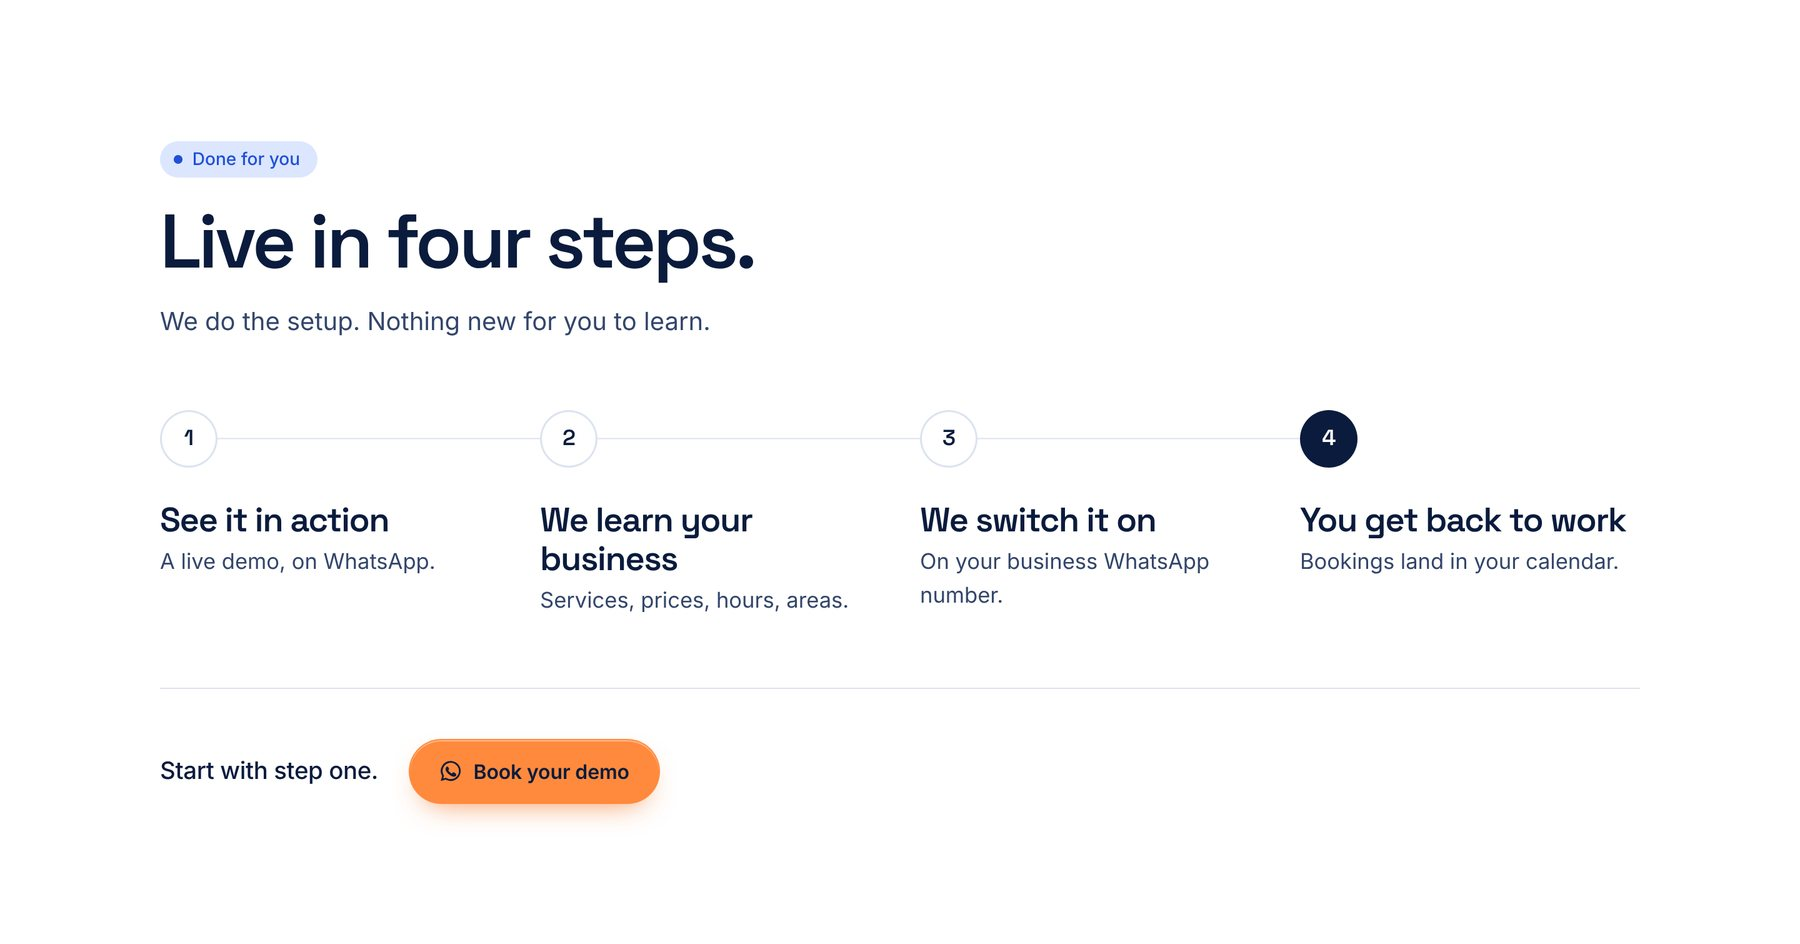
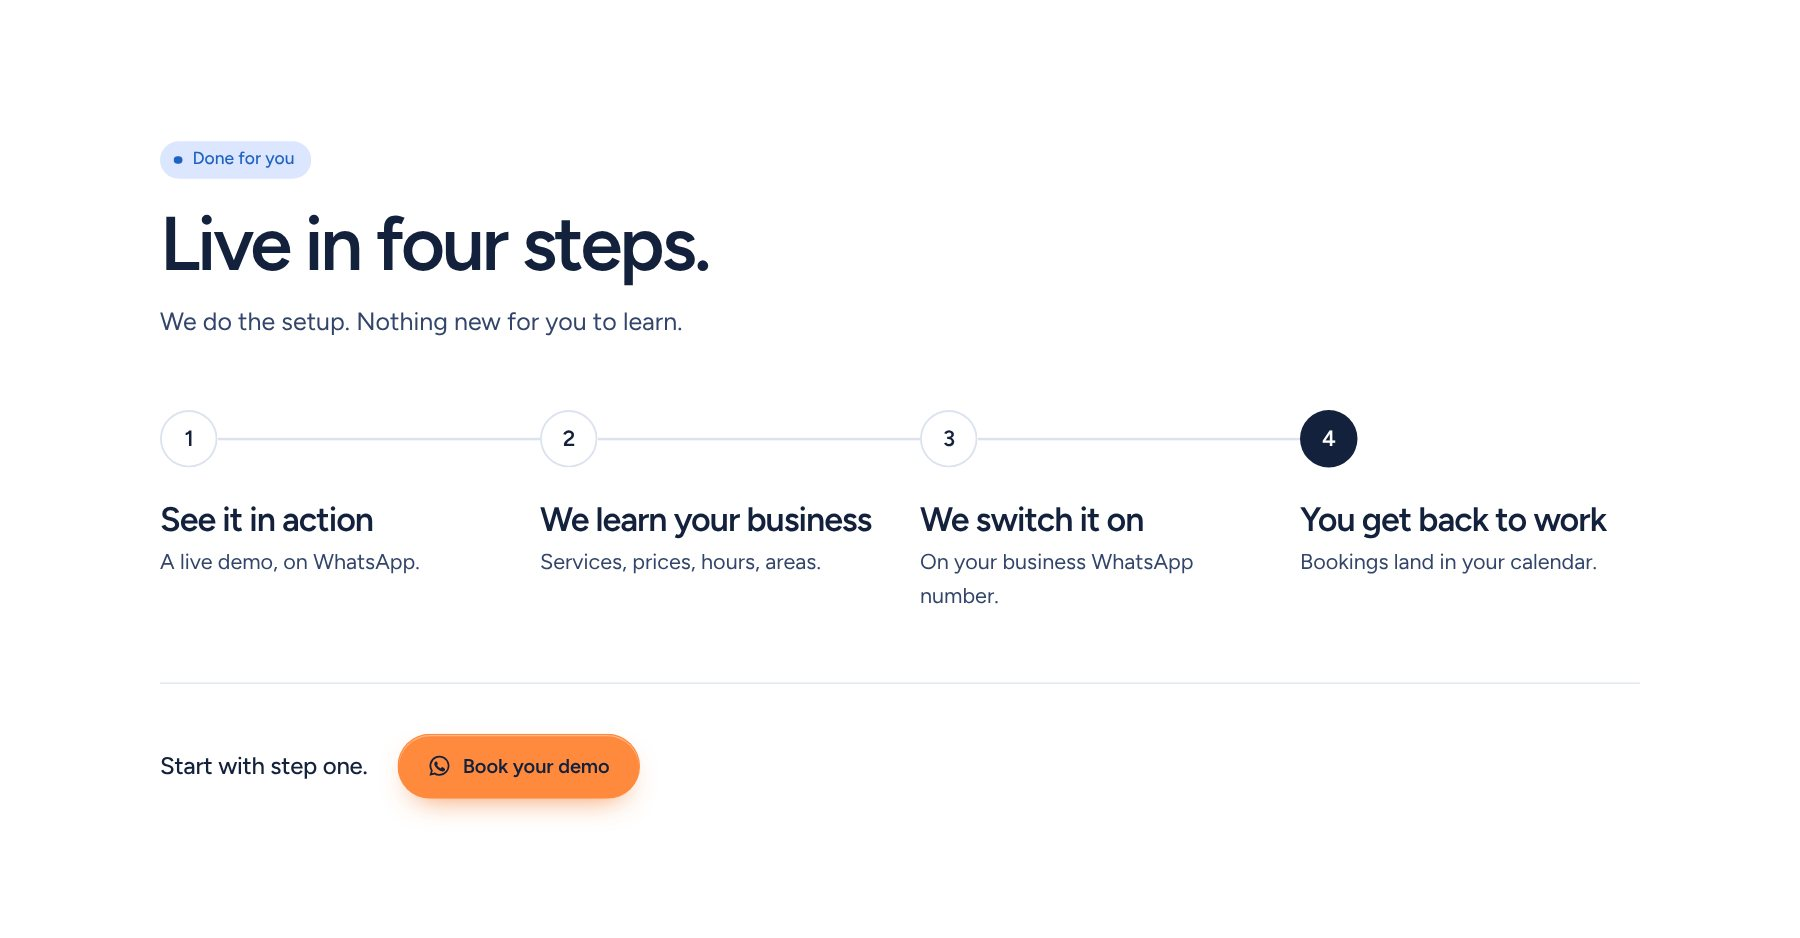
Hillo Receptionist: results-led pitch, menu-bot comparison, lowercase lockup; finish Front Desk rename in case study
Claude-Session: https://claude.ai/code/session_015WsDLJGdahUdhifUbWcuVV

diff --git a/receptionist/index.html b/receptionist/index.html
@@ -4,7 +4,7 @@
 <meta charset="utf-8">
 <meta name="viewport" content="width=device-width, initial-scale=1">
 <title>Hillo Receptionist | WhatsApp bookings for George, Mossel Bay and surrounds</title>
-<meta name="description" content="An assistant that answers your WhatsApp, books jobs into your calendar and speaks as your business, in English or Afrikaans. For small businesses in George, Mossel Bay and surrounds.">
+<meta name="description" content="Hillo Receptionist answers the WhatsApps you miss while you're with a client. It replies like a person, answers questions and books jobs into your calendar, in English or Afrikaans. For small businesses in George, Mossel Bay and surrounds.">
 <meta name="theme-color" content="#F6F8FC">
 <meta name="color-scheme" content="light">
 <!-- Draft preview: keep out of search until launch. Remove at launch. -->
@@ -16,7 +16,7 @@
 <link rel="canonical" href="https://hillo.co.za/receptionist/">
 <meta property="og:url" content="https://hillo.co.za/receptionist/">
 <meta property="og:title" content="Hillo Receptionist · Answers your WhatsApp 24/7">
-<meta property="og:description" content="It answers your WhatsApp and books jobs into your calendar. 24/7, in English or Afrikaans. For small businesses in George, Mossel Bay and surrounds.">
+<meta property="og:description" content="Answers the WhatsApps you miss while you're with a client, and books jobs into your calendar. 24/7, in English or Afrikaans.">
 <meta property="og:image" content="https://hillo.co.za/receptionist/og.png">
 <meta property="og:image:width" content="1200">
 <meta property="og:image:height" content="630">
@@ -355,6 +355,16 @@
      Language band: the one deep-blue band. White text only.
      ========================================================= */
   .language { background: var(--ink); color: #fff; }
+  /* Not a menu bot: claims as a ticked list, same tick as the chat captions = "this is done for you" */
+  .notbot .wrap { display: grid; gap: 2.5rem; align-items: start; }
+  @media (min-width: 900px) { .notbot .wrap { grid-template-columns: minmax(0, 0.9fr) minmax(0, 1.1fr); gap: 5rem; } }
+  .diffs { list-style: none; margin: 0; padding: 0; display: grid; }
+  .diffs li { display: grid; grid-template-columns: auto minmax(0, 1fr); gap: 1rem; padding: 1.15rem 0; border-top: 1px solid var(--line); }
+  .diffs li:last-child { border-bottom: 1px solid var(--line); }
+  .d-tick { width: 1.9rem; height: 1.9rem; border-radius: 50%; display: grid; place-items: center; background: var(--blue-soft); color: var(--blue); margin-top: .1rem; }
+  .d-tick svg { width: 1rem; height: 1rem; }
+  .diffs h3 { margin: 0 0 .15rem; font-size: 1.15rem; font-weight: 600; letter-spacing: -0.015em; line-height: 1.3; }
+  .diffs p { margin: 0; color: var(--ink-2); }
   .language .h2 { max-width: none; }
   .language .h2 span { display: block; }
   .language .h2 span + span { color: var(--blue-soft); }
@@ -549,7 +559,7 @@
 
 <header class="site-header" id="site-header">
   <div class="wrap">
-    <a class="wordmark" href="#top" aria-label="Hillo Receptionist, home"><span class="wm" aria-hidden="true">h<span class="i">ı</span>llo</span><span class="desc" aria-hidden="true">Receptionist</span></a>
+    <a class="wordmark" href="#top" aria-label="Hillo Receptionist, home"><span class="wm" aria-hidden="true">h<span class="i">ı</span>llo</span><span class="desc" aria-hidden="true">receptionist</span></a>
     <nav class="nav" aria-label="Main">
       <a href="#how">How it works</a>
       <a href="#faq">Questions</a>
@@ -570,7 +580,7 @@
           <span class="sr-only">receptionist</span>
           <span class="line" aria-hidden="true"><span class="role" id="role"><span class="role-text" id="role-text">receptionist</span></span></span>
         </h1>
-        <p class="lede">It answers your WhatsApp and books jobs into your calendar. <span class="nowrap">24/7, in English or Afrikaans.</span></p>
+        <p class="lede">How many WhatsApps do you miss while you're with a client? Hillo Receptionist answers them for you. <span class="nowrap">24/7, in English or Afrikaans.</span></p>
         <div class="hero-actions">
           <a class="btn btn-primary js-wa" href="#demo"><svg class="i"><use href="#i-wa"/></svg>Chat to us on WhatsApp</a>
           <a class="btn btn-ghost" href="#how">See how it works</a>
@@ -611,7 +621,7 @@
     <div class="wrap">
       <p class="tag">Always on</p>
       <h2 class="h2" id="tasks-title" data-focus>Every message gets a reply. Even when you're busy.</h2>
-      <p class="sub" data-focus>Your WhatsApp keeps working while you do.</p>
+      <p class="sub" data-focus>It replies like a person, answers questions and books jobs straight into your calendar. If something needs you, it sends you a message.</p>
       <ul class="tasks">
         <li><span class="icon-tile"><svg class="i"><use href="#i-chat"/></svg></span><h3>Answers questions</h3><p>Prices, hours, areas. In your words.</p></li>
         <li><span class="icon-tile"><svg class="i"><use href="#i-cal"/></svg></span><h3>Books jobs</h3><p>Straight into your calendar.</p></li>
@@ -631,13 +641,30 @@
       <figure class="float-chat" data-arrive aria-label="Example: one messy message with a new question and a change of day, both handled in one reply">
         <ol class="thread">
           <li class="turn cust"><p class="msg">ok thursday 2pm works. <mark class="hl-new">wait do u also do pool pumps??</mark> and <mark class="hl-change">can we make it friday rather</mark>, sorry<time>18:12</time></p><span class="ava-cust" aria-hidden="true"><svg class="i"><use href="#i-user"/></svg></span></li>
-          <li class="turn biz" style="--i:1"><p class="msg">No problem! <mark class="hl-new">Yes, we repair and replace pool pumps.</mark> <mark class="hl-change">Friday at 14:00 is open, so you're moved to then.</mark> Should we look at the pump on the same visit?<time>18:12</time></p></li>
+          <li class="turn biz" style="--i:1"><p class="msg">No problem. <mark class="hl-new">Yes, we repair and replace pool pumps.</mark> <mark class="hl-change">Friday at 14:00 is open, so you're moved to then.</mark> Should we look at the pump on the same visit?<time>18:12</time></p></li>
           <li class="caps" style="--i:2">
             <p class="cap"><span class="sw new" aria-hidden="true"><svg><use href="#i-tick"/></svg></span>New question answered</p>
             <p class="cap"><span class="sw change" aria-hidden="true"><svg><use href="#i-tick"/></svg></span>Moved to Friday 14:00</p>
           </li>
         </ol>
       </figure>
+    </div>
+  </section>
+
+  <!-- ===== Not a menu bot ===== -->
+  <section class="band notbot" aria-labelledby="notbot-title">
+    <div class="wrap">
+      <div>
+        <h2 class="h2" id="notbot-title" data-focus>Not another menu bot.</h2>
+        <p class="sub" data-focus>Cheap WhatsApp bots make customers press 1 for bookings and 2 for prices. Hillo Receptionist reads what they actually wrote.</p>
+      </div>
+      <ul class="diffs">
+        <li><span class="d-tick" aria-hidden="true"><svg><use href="#i-tick"/></svg></span><div><h3>Understands what they mean</h3><p>Typos, two questions at once, a change of plan.</p></div></li>
+        <li><span class="d-tick" aria-hidden="true"><svg><use href="#i-tick"/></svg></span><div><h3>Answers like your receptionist</h3><p>Your prices, hours and areas, in plain words.</p></div></li>
+        <li><span class="d-tick" aria-hidden="true"><svg><use href="#i-tick"/></svg></span><div><h3>Finishes the booking</h3><p>Not just a reply. The job goes straight into your calendar.</p></div></li>
+        <li><span class="d-tick" aria-hidden="true"><svg><use href="#i-tick"/></svg></span><div><h3>Nothing for you to build</h3><p>No menus, no flows, no settings. We set it up and look after it.</p></div></li>
+        <li><span class="d-tick" aria-hidden="true"><svg><use href="#i-tick"/></svg></span><div><h3>Honest about what it is</h3><p>It tells customers it's an assistant, and hands them to you when they need you.</p></div></li>
+      </ul>
     </div>
   </section>
 
@@ -652,14 +679,14 @@
           <figcaption class="chat-label">English</figcaption>
           <ol class="thread">
             <li class="turn cust"><p class="msg">Morning, are you open on Saturdays for a haircut?<time>07:58</time></p><span class="ava-cust" aria-hidden="true"><svg class="i"><use href="#i-user"/></svg></span></li>
-            <li class="turn biz" style="--i:1"><p class="msg">Morning! Yes, we're open 08:00 to 13:00 on Saturdays. We have 09:30 or 11:00 free. What time would you prefer?<time>07:58</time></p></li>
+            <li class="turn biz" style="--i:1"><p class="msg">Morning. Yes, we're open 08:00 to 13:00 on Saturdays. We have 09:30 or 11:00 free. What time would you prefer?<time>07:58</time></p></li>
           </ol>
         </figure>
         <figure class="float-chat" data-arrive style="--d:.9s" lang="af" aria-label="Voorbeeld in Afrikaans: 'n salonkliënt vra oor Saterdag-haarsny">
           <figcaption class="chat-label" lang="en">Afrikaans</figcaption>
           <ol class="thread">
             <li class="turn cust"><p class="msg">Môre, is julle Saterdae oop vir ’n haarsny?<time>07:59</time></p><span class="ava-cust" aria-hidden="true"><svg class="i"><use href="#i-user"/></svg></span></li>
-            <li class="turn biz" style="--i:1"><p class="msg">Môre! Ja, Saterdae is ons van 08:00 tot 13:00 oop. Ons het nog plek om 09:30 of 11:00. Hoelaat sal jy verkies om te kom?<time>07:59</time></p></li>
+            <li class="turn biz" style="--i:1"><p class="msg">Môre. Ja, Saterdae is ons van 08:00 tot 13:00 oop. Ons het nog plek om 09:30 of 11:00. Hoelaat sal jy verkies om te kom?<time>07:59</time></p></li>
           </ol>
         </figure>
       </div>
@@ -728,7 +755,7 @@
             <figcaption class="chat-label">Live in the chat</figcaption>
             <ol class="thread">
               <li class="turn cust"><p class="msg">Can I order a chocolate cake for Saturday?<time>09:14</time></p><span class="ava-cust" aria-hidden="true"><svg class="i"><use href="#i-user"/></svg></span></li>
-              <li class="turn biz" style="--i:1"><p class="msg">Yes! A 20&nbsp;cm chocolate cake is R320. What name should it be under?<time>09:14</time></p></li>
+              <li class="turn biz" style="--i:1"><p class="msg">Yes, a 20&nbsp;cm chocolate cake is R320. What name should it be under?<time>09:14</time></p></li>
               <li class="status" style="--i:2"><svg aria-hidden="true"><use href="#i-tick"/></svg>Order details taken</li>
             </ol>
           </figure>
@@ -759,11 +786,11 @@
         </details>
         <details>
           <summary>What if a customer needs to speak to me?</summary>
-          <p>The assistant tells them you'll be in touch and lets you know.</p>
+          <p>It tells them you'll be in touch and lets you know.</p>
         </details>
         <details>
           <summary>Do customers know it's automated?</summary>
-          <p>Yes. It says so in its first reply.</p>
+          <p>Yes. It says it's an assistant in its first reply.</p>
         </details>
         <details>
           <summary>What calendar does it use?</summary>
@@ -813,7 +840,7 @@
   <div class="wrap">
     <div class="foot-grid">
       <div class="foot-brand">
-        <a class="wordmark" href="#top" aria-label="Hillo Receptionist, back to top"><span class="wm" aria-hidden="true">h<span class="i">ı</span>llo</span><span class="desc" aria-hidden="true">Receptionist</span></a>
+        <a class="wordmark" href="#top" aria-label="Hillo Receptionist, back to top"><span class="wm" aria-hidden="true">h<span class="i">ı</span>llo</span><span class="desc" aria-hidden="true">receptionist</span></a>
         <p>A WhatsApp assistant that knows your business. For small businesses in George, Mossel Bay and surrounds.</p>
         <p class="foot-parent">A <a href="/">Hillo</a> product.</p>
       </div>

diff --git a/index.html b/index.html
@@ -538,7 +538,7 @@ footer .wrap{padding-block:clamp(72px,8vw,120px) 32px;display:grid;gap:clamp(32p
       <span class="label">Landing page · Preview, 2026</span>
       <h1>A website <span class="bi">for</span> a WhatsApp receptionist</h1>
       <div class="facts">
-        <div><span class="label">Product</span><span>Hillo Receptionist (built under the working name Front Desk)</span></div>
+        <div><span class="label">Product</span><span>Hillo Receptionist</span></div>
         <div><span class="label">For</span><span>Small businesses in George, Mossel Bay and surrounds</span></div>
         <div><span class="label">Scope</span><span>Positioning, copy, design, front-end, motion</span></div>
         <div><span class="label">Built</span><span>One static page, no framework · <a href="/receptionist/">hillo.co.za/receptionist</a></span></div>
@@ -547,14 +547,14 @@ footer .wrap{padding-block:clamp(72px,8vw,120px) 32px;display:grid;gap:clamp(32p
 
     <figure class="browser-shot big-shot">
       <div class="bar" aria-hidden="true"><i></i><i></i><i></i><span>hillo.co.za/receptionist</span></div>
-      <img src="img/d-hero.jpg" alt="Front Desk landing page hero: 'Meet your new receptionist', with a WhatsApp chat where a plumbing business books a geyser repair." width="1800" height="813">
+      <img src="img/d-hero.jpg" alt="Hillo Receptionist landing page hero: 'Meet your new receptionist', with a WhatsApp chat where a plumbing business books a geyser repair." width="1800" height="819">
     </figure>
 
     <section class="grid story">
       <span class="label sp">The brief</span>
       <p class="lead">Explain a product nobody has seen before, to a busy owner skimming on their phone, <span class="bi">in</span> a few seconds.</p>
       <div class="body">
-        <p>The product answers a business's WhatsApp, books jobs into their calendar and speaks as the business, in English or Afrikaans. It was built as Front Desk and is now Hillo Receptionist. The big players in this space are global and self-serve. This one is local and done for you, so the page had to feel personal and trustworthy without faking it.</p>
+        <p>The product answers a business's WhatsApp, books jobs into their calendar and speaks as the business, in English or Afrikaans. The big players in this space are global and self-serve. This one is local and done for you, so the page had to feel personal and trustworthy without faking it.</p>
         <p>That ruled out the usual shortcuts: no stock photos, no logo walls, no star ratings and no invented numbers. The product had to explain itself.</p>
       </div>
     </section>
@@ -567,7 +567,7 @@ footer .wrap{padding-block:clamp(72px,8vw,120px) 32px;display:grid;gap:clamp(32p
           <p>Instead of a headline about AI, the first thing you see is a real-feeling chat. A customer with a leaking geyser at 21:47 gets a safety tip, two time slots and a confirmed booking. Small captions under the messages show the work you can't see, like "Booked into your calendar".</p>
         </div>
         <div class="ap-media phone-pair">
-          <div class="phone-shot"><img src="img/m-hero.jpg" alt="Front Desk hero on a phone, showing the headline and the start of the plumbing chat." width="780" height="1688" loading="lazy"></div>
+          <div class="phone-shot"><img src="img/m-hero.jpg" alt="Hillo Receptionist hero on a phone, showing the headline and the start of the plumbing chat." width="780" height="1688" loading="lazy"></div>
         </div>
       </div>
 
@@ -589,7 +589,7 @@ footer .wrap{padding-block:clamp(72px,8vw,120px) 32px;display:grid;gap:clamp(32p
       </div>
 
       <figure class="browser-shot wide-shot">
-        <picture><source media="(max-width:600px)" srcset="img/m-keeps.jpg" width="780" height="1272"><img src="img/d-keeps.jpg" alt="Section 'Customers type how they talk': a message full of typos with two questions and a change of day, each highlighted and explained." width="1800" height="602" loading="lazy"></picture>
+        <picture><source media="(max-width:600px)" srcset="img/m-keeps.jpg" width="780" height="1264"><img src="img/d-keeps.jpg" alt="Section 'Customers type how they talk': a message full of typos with two questions and a change of day, each highlighted and explained." width="1800" height="574" loading="lazy"></picture>
         <figcaption>Real customers don't write neatly. Two questions, a change of plan and the odd typo, highlighted in two colours and explained in place.</figcaption>
       </figure>
 
@@ -601,12 +601,12 @@ footer .wrap{padding-block:clamp(72px,8vw,120px) 32px;display:grid;gap:clamp(32p
         </div>
         <div class="ap-media phone-pair">
           <div class="phone-shot"><img src="img/m-language.jpg" alt="Language band on a phone: English and Afrikaans chats." width="780" height="1688" loading="lazy"></div>
-          <div class="phone-shot offset"><img src="img/m-keeps.jpg" alt="Customers type how they talk section on a phone." width="780" height="1272" loading="lazy"></div>
+          <div class="phone-shot offset"><img src="img/m-keeps.jpg" alt="Customers type how they talk section on a phone." width="780" height="1264" loading="lazy"></div>
         </div>
       </div>
 
       <figure class="browser-shot wide-shot">
-        <picture><source media="(max-width:600px)" srcset="img/m-steps.jpg" width="780" height="1688"><img src="img/d-steps.jpg" alt="Live in four steps: see it in action, we learn your business, we switch it on, you get back to work." width="1800" height="944" loading="lazy"></picture>
+        <picture><source media="(max-width:600px)" srcset="img/m-steps.jpg" width="780" height="1688"><img src="img/d-steps.jpg" alt="Live in four steps: see it in action, we learn your business, we switch it on, you get back to work." width="1800" height="938" loading="lazy"></picture>
         <figcaption>Done for you, in four steps. The last step is the outcome they're paying for, so it's the only one filled in.</figcaption>
       </figure>
     </section>
